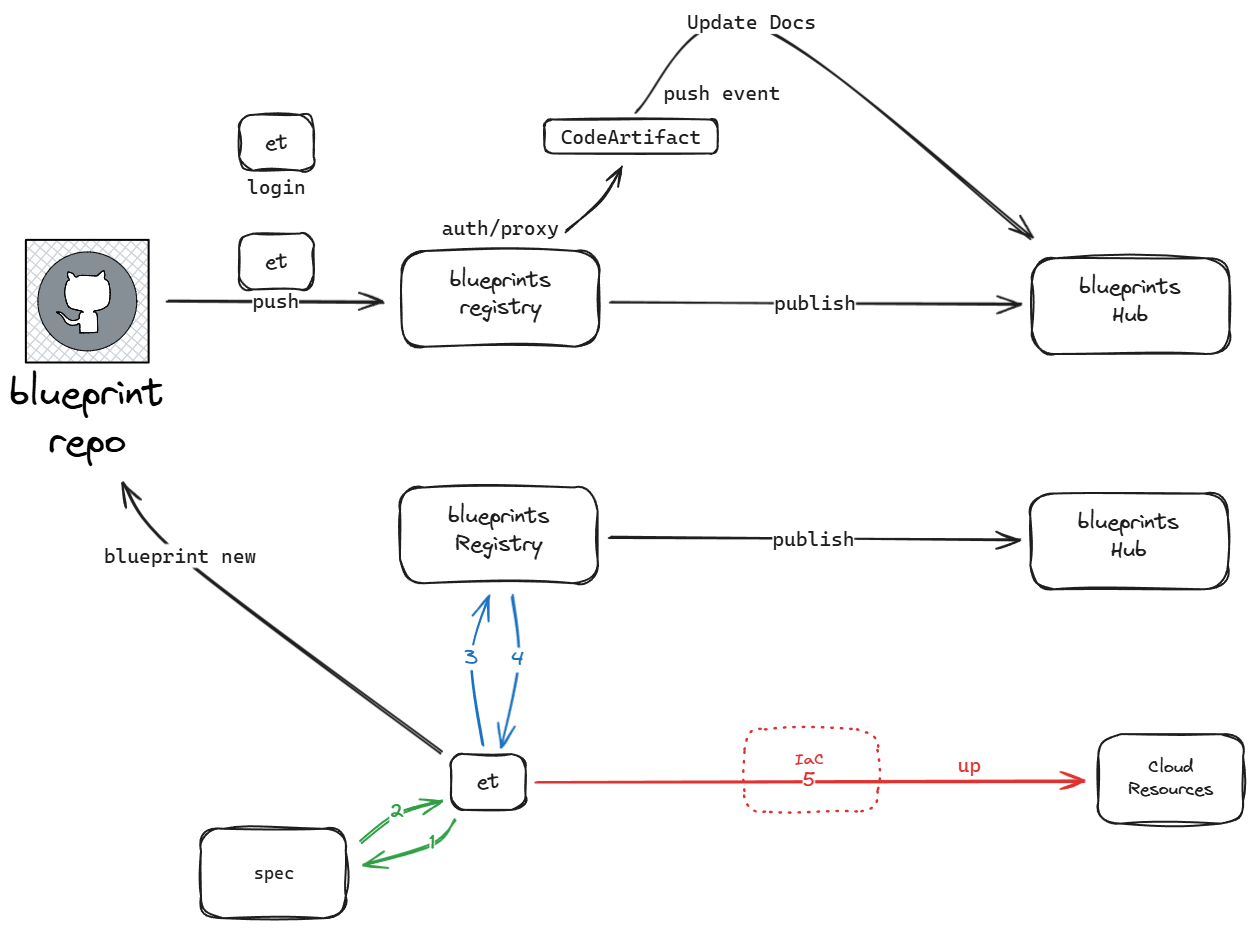
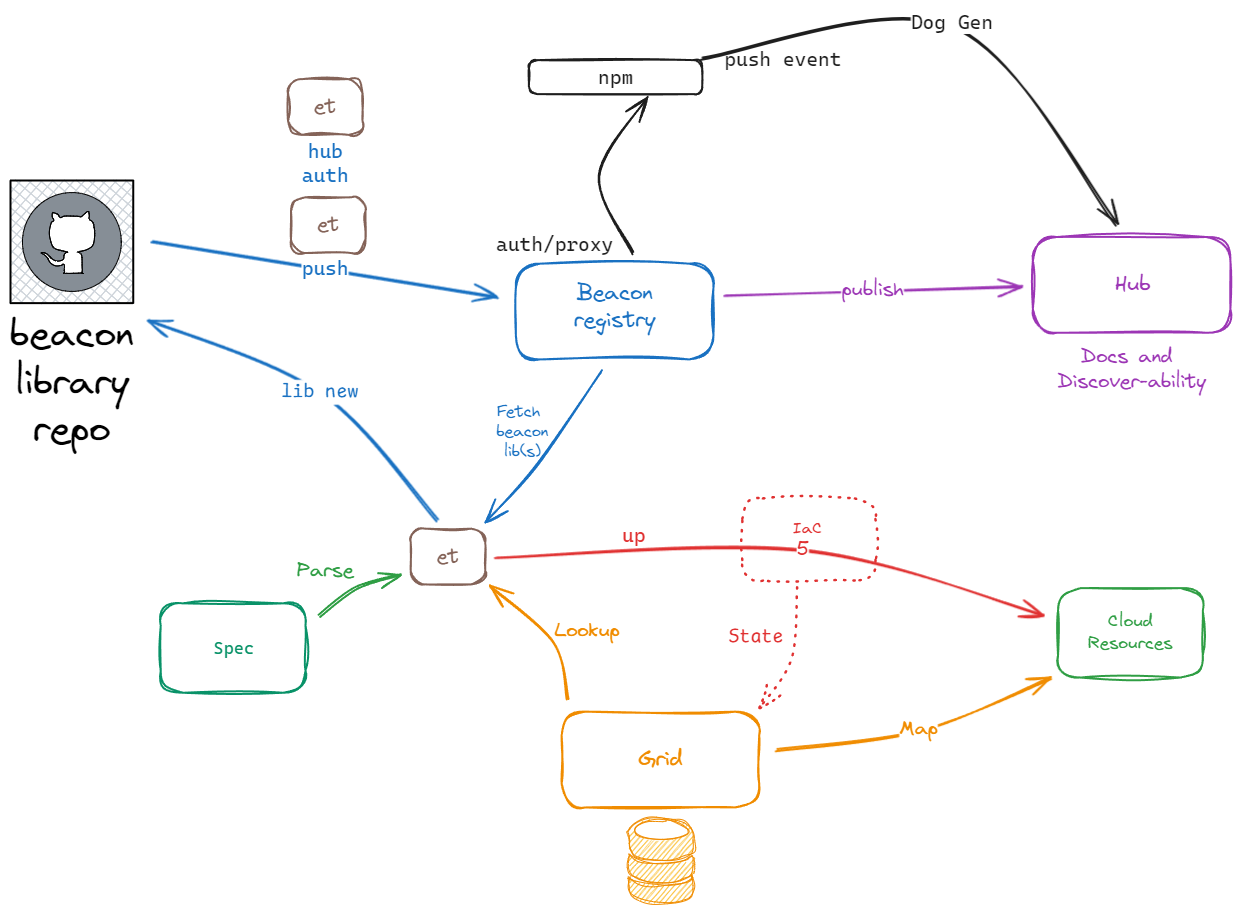
sed s/context/grid/g
- Replace `context` with `grid`
- Update Diagram with new terminology and add `grid`

diff --git a/CLI.md b/CLI.md
@@ -2,51 +2,51 @@
 
 Proposal of `et` cli features and commands.
 
-## Context
+## Grid
 
-The Environment Toolkit uses the `context` as a workspace to keep track of the states for the `Specs` it manages. Each `et` invocation must be within an "active" `context`. Committing the `context` to git improves reproducibility and collaboration.
+The Environment Toolkit uses the `Grid` as a workspace to keep track of the states for the `Specs` it manages. Each `et` invocation must be within an "active" `grid`. Committing the `grid` to git improves reproducibility and collaboration.
 
-A reference to the active context is stored `et`'s default  config (`~/.et/config`).
+A reference to the active grid is kept in `et`'s default config (`~/.et/config`).
 
 > [!IMPORTANT]
-> The `context` ties all the states managed by `et` together and provides a crucial mechanism for lookups.
+> The `grid` ties all the states managed by `et` together and provides a crucial mechanism for lookups.
 
-The metadata tracked about states includes things such as:
+The metadata tracked about `States` includes things such as:
 
 - The relationship between `Spec` files and their `States` across environments + regions.
 - A list of Beacon libraries with the desired version constraint as well as the actual `lock`'ed version used.
 
-The `context` is required by the toolkit to allow cross `State` lookups, dependency cycle prevention, state refactoring and execution orchestration.
+The `grid` is required by the toolkit to allow cross `State` lookups, dependency cycle prevention, state refactoring and execution orchestration.
 
-### Set Current Context
+### Set Current grid
 
-Minimal configuration is required to activate a context such as an initial mapping of environments to Cloud Provider accounts. This information is defined in a `context` manifest. see [examples/contexts/my-org.yml](./examples/contexts/my-org.yml)
+Minimal configuration is required to activate a grid such as an initial mapping of environments to Cloud Provider accounts. This information is defined in a `grid` manifest. see [examples/grids/my-org.yml](./examples/grids/my-org.yml)
 
 ```console
-et use ./examples/contexts/my-org.yml
+et use ./examples/grids/my-org.yml
 ```
 
-> Alternatively: use the global CLI `-c / --context` flag for executions across multiple contexts.
+> Alternatively: use the global CLI `-g / --grid` flag for executions across multiple grids.
 
 <!--
-### Bootstrap Context
+### Bootstrap grid
 
 Provision the conventional Cloud resources for the Environment Toolkit to manage environments within the Cloud Provider.
 
 ```console
-et bootstrap ./examples/contexts/my-org.yml
+et bootstrap ./examples/grids/my-org.yml
 ```
 -->
 
 ### Register a Beacon library
 
-Add a Beacon library version constraint into the current `context` for reproducibility.
+Add a Beacon library version constraint into the current `grid` for reproducibility.
 
 ```console
 et add @envtio/base[@version-constraint]
 ```
 
->[!NOTE]
+> [!NOTE]
 > The version [constraint](https://docs.npmjs.com/about-semantic-versioning#using-semantic-versioning-to-specify-update-types-your-package-can-accept) controls library updates.
 
 <!-- TODO: Future feature of managing private Beacon pkges auth mechanisms and facility the init command for available beacons -->
@@ -61,7 +61,7 @@ Init a spec file for a beacon.
 et init [<library-ref>/]<beacon-type>
 ```
 
-Init will automatically add the beacon library to the current `context`.
+Init will automatically add the beacon library to the current `grid`.
 
 ### Stand up Spec
 
@@ -69,23 +69,24 @@ Init will automatically add the beacon library to the current `context`.
 et up [-f spec.yml] <environment> <region>
 ```
 
-Evaluate and resolve the Spec properties and dependencies across target environment and region within the current `context`.
+Evaluate and resolve the Spec properties and dependencies across target environment and region within the current `grid`.
 
 <!-- CLI will:
 
-- evaluate the spec, resolving resource references through the context
+- evaluate the spec, resolving resource references through the grid
 - unresolved referenced properties halt the process
 - resolved referenced properties are templated out
 - stack synthesis and plan is executed using the Terraform Provider credential chain (i.e assume role arn)
 - on confirmation stack is applied
+- resulting State is indexed by UUID for env/region (attributes) in the grid and used for future spec resolving.
 
-SaaS offers advanced orchestration mechanisms by overlaying the concept of `formations` over `context`
+SaaS offers advanced orchestration mechanisms over a `grid` of states.
 
 -->
 
 ### Tear Down Spec
 
->[!IMPORTANT]
+> [!IMPORTANT]
 > This is `--dry-run` by default.
 
 ```console

diff --git a/README.md b/README.md
@@ -4,19 +4,21 @@
     <img src="images/logo.png" alt="logo" style="width:150px;"/>
 </div>
 
-The environment toolkit provides a set of tools for building Infrastructure as Code (IaC) configurations on public cloud providers. It consists of a CLI called `et` to bootstrap, build, publish, and execute `beacons`, which are collections of Cloud Provider Resources. These `beacons` are indexed and made discoverable through the `hub`.
+The environment toolkit provides a set of tools for building Infrastructure as Code (IaC) configurations on public cloud providers.
 
-This way, the environment toolkit brings composition to infrastructure, allowing a set of `beacons` to be composed together.
+It consists of a CLI called `et` to bootstrap, build, publish, and execute `beacons`, which are of Cloud Provider Resources. Libraries of `beacons` are indexed and made discoverable through the `hub`.
+
+This way, the environment toolkit brings composition to infrastructure, allowing a library of `beacons` to be composed together.
 
 ## Architecture Terms
 
 1. `et` - the cli
 1. Hub - the default hub for beacons `hub.envt.io`
 1. Beacon - CDK-TF higher level constructs created by the community and discoverable through the `hub`. <!-- Beacons are namespaced by class and expose composition contracts. -->
-1. Context - A workspace for `et` to track and resolve dependencies between Beacons.
+1. Grid - A workspace for `et` to track and resolve dependencies between Beacons.
 1. Spec - the spec file which contains a Beacon type (`type`), identifier (`name`), Properties (`props`) and may include secondary supporting beacons with their properties.
 1. Class - a term we took from CMDB, which helps validate the specs, their properties and dependencies.
-1. State - the result of running a Spec with Environment Toolkit. All Beacon states are tracked in the execution `context`.
+1. State - the result of running a Spec with Environment Toolkit. All Beacon states are tracked in the execution `grid`.
 1. Resource - each Beacon + Props results in Resources within a State
 1. Reference - A reference will connect Resources across States
 
